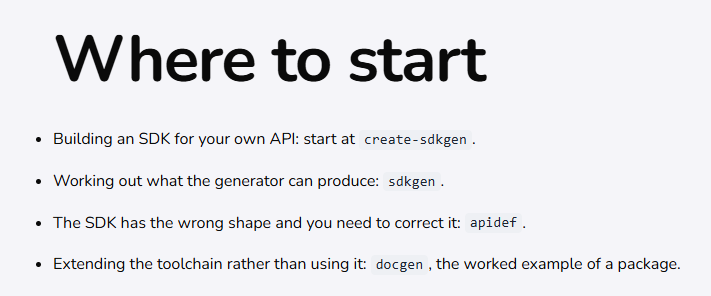
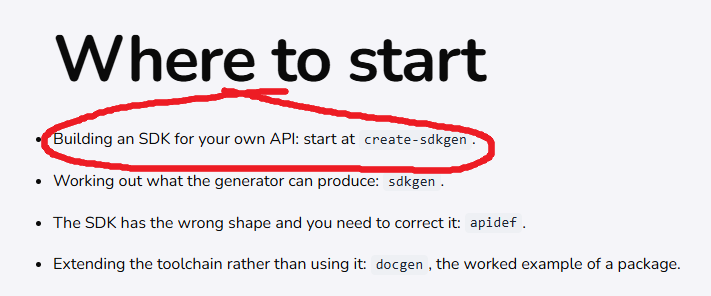
fixes

Changed region(s): [[0.0309, 0.2736, 0.7117, 0.6081]]

diff --git a/jobs/DevRel/Voxgig/assessment-notes.md b/jobs/DevRel/Voxgig/assessment-notes.md
@@ -10,105 +10,93 @@
 
 ## Human journey
 
-This is my personal journey to understand how to generate 
+This is my personal journey to learn how to generate an SDK, starting from the website as a human would.
 
 ### SDK main page
 
-Go to https://voxgig.com/sdk 
+Go to https://voxgig.com/sdk
 
-![alt text](image.png)
+![Voxgig SDK landing page](image.png)
 
 > [!NOTE]
 > Nothing interesting.
 
-
 #### ⚠ SPOILER ⚠
 
-If I scroll down to https://voxgig.com/sdk#your-own-sdk 
+When I scroll down to https://voxgig.com/sdk#your-own-sdk
 
-![alt text](image-2.png)
+![The "Your own SDK" section with the npm create command](image-2.png)
 
-That link goes to: https://github.com/voxgig/sdkgen 
+That link goes to: https://github.com/voxgig/sdkgen
 
-In the [voxgigsdkgen section of README.md](https://github.com/voxgig/sdkgen#voxgigsdkgen) I can see what I was looking for:
-![alt text](image-7.png)
+In the [voxgig-sdkgen section of the README](https://github.com/voxgig/sdkgen#voxgigsdkgen), I finally find what I was looking for:
+
+![README section showing the quick-start commands](image-7.png)
 
 > [!NOTE]
-> That repo README.md and (Agents)[https://voxgig.com/sdk/agents.md] ARE ❤fantastic❤. 
-> 
-> That content is what I would like to see in the home page
-> 
-> As user I expect in the webpage to be a complete and updated "getting started" section and not having to go to the github repo.
+> That repo's `README.md` and the [agent guide](https://voxgig.com/sdk/agents.md) are ❤fantastic❤.
+>
+> That content is what I would like to see on the home page.
+>
+> As a user, I expect the website to have a complete, up-to-date "Getting started" section, so I do not have to go to the GitHub repo.
 
-**⚠ But this is a shortcut, as user I want to find all the info I need in the webpage not in the github repo⚠**
-
+**⚠ But this is a shortcut: as a user, I want to find everything I need on the website, not in the GitHub repo. ⚠**
 
 ### SDK > docs
 
 URL: https://www.voxgig.com/sdk/docs
 
-Docs page. This is where I really expect to find a structured technical documentation. But I can't find it.
+Docs page. This is where I really expect to find structured technical documentation. But I cannot find it.
 
-#### The Title
+#### `Toolchain documentation` section
 
-![alt text](image-3.png)
-
-```
-# Toolchain documentation
-
-The toolchain is a pipeline of separately published packages. This section documents each of them, with every example taken from a public SDK the toolchain generated.
-```
+![The "Toolchain documentation" heading](image-3.png)
 
 > [!NOTE]
-> I don't like `Toolchain documentation` as title. I want to generate a SDK from an API, what has this to do with a `Toolchain`?
+> I don't like `Toolchain documentation` as a title. I want to generate an SDK from an API; what does this have to do with a toolchain?
 
-#### The Pipeline
+#### `The Pipeline` section
 
 URL: https://voxgig.com/sdk/docs#the-components
 
-![alt text](image-4.png)
+![The pipeline table](image-4.png)
 
-> [!NOTE]  
-> When I see this, it looks like a real "getting started". But after reading it, I realize is a marketing thing rather than a technical guide
-> - We are in the docs page, why not having the getting started here similar to what we have in the [README.md](https://github.com/voxgig/create-sdkgen/blob/main/AGENTS.md)
-> - I see mentions to multiple Voxgig products like `apidef`, `sdkgen` (the reason I'm here) and not mention to `create-sdkgen`, the product I'm going to actually use ➡ Feels confusing, why not having links to those products?
+> [!NOTE]
+> At first glance this looks like a real "Getting started". But after reading it, I realize it is marketing copy rather than a technical guide.
+> - We are on the docs page; why not have the getting started here, similar to what is in [`AGENTS.md`](https://github.com/voxgig/create-sdkgen/blob/main/AGENTS.md)?
+> - I see mentions of several Voxgig products, like `apidef` and `sdkgen` (the reason I am here), but no mention of `create-sdkgen`, the product I am actually going to use ➡ It feels confusing; why not link to those products?
+
+#### `The Components` section
 
 I scroll down to [The components](https://voxgig.com/sdk/docs#the-components)
 
-![alt text](image-5.png)
+
+![The components section](image-5.png)
 
 > [!NOTE]
-> - A description of tools but it's not which one I have to use to generate my sdkgen. 
-> - Still looking for a real documentation and a getting started guide.
-> - 1st time I see `create-sdkgen`, what's the difference between it and `sdkgen`?
-> - 💀 At this point I'm lost and frustrated, I don't know what to do.
+> - A description of the tools, but it does not say which one to use to generate my SDK.
+> - Still looking for real documentation and a getting-started guide.
+> - This is the first time I see `create-sdkgen`; what is the difference between it and `sdkgen`?
+> - 💀 At this point I am lost and frustrated; I don't know what to do.
+
+#### `Where to start` section
 
 I scroll to the bottom of the page, [Where to start](https://voxgig.com/sdk/docs#where-to-start) section
 
-![alt text](image-6.png)
+![The "Where to start" section](image-6.png)
 
+> [!IMPORTANT]
+> 🎉🎉🎉 FINALLY!!!! `Building an SDK for your own API: start at create-sdkgen` 👈 This is what I have been looking for since the beginning!
 
-> [!IMPORTANT]  
-> 🎉🎉🎉 FINALLY!!!! `Building an SDK for your own API: start at create-sdkgen` 👈 This is what I was looking for since the begining!!
-
-**⚠ At this point I give up with the webpage and I go straight to the `create-sdkgen` github repo since now I know this is what I need ⚠**
+**⚠ At this point I give up on the website and go straight to the `create-sdkgen` GitHub repo, since now I know this is what I need. ⚠**
 
 ## Notes
 
-- Always assumes in exmpales openapi is yaml and not json format
- 
-### Human journey conclusion
-
-Following the documentation its frustating for a human. The docs are genuinely confusing Concrete evidence:
-- Two packages (create-sdkgen, sdkgen) with near-identical names, in separate repos, where npm's npm create @voxgig/sdkgen command silently runs the other one.
-- [Agents path](https://voxgig.com/sdk/agents) holds the clearest human runbook.
-- The pipeline page names stages (Model, Generate) but not the commands or the packages that do them.
-- Package-name-vs-CLI-name mismatches everywhere (@voxgig/sdkgen ↔ voxgig-sdkgen ↔ create-sdkgen).
-- .aon vs .aontu extension churn mid-docs.
+- The examples assume the OpenAPI spec is YAML rather than JSON, even though the tool accepts both.
 
 ## Robot journey
 
-If I ask an AI what are the steps to do the assesment it's very clear what I have to do.
+If I ask an AI what the steps to complete the assessment are, it is very clear what I have to do.
 
 ### Prerequisites
 
@@ -148,7 +136,7 @@ Green tests = the SDK works, offline, no API key needed.
 
 ### Step 4 — (Optional) One real call
 
-Only if you have an API key, make a single live request to prove it works end to end. If you don't, skip — the offline tests already prove it.
+Only if you have an API key: make a single live request to prove it works end to end. If you don't have a key, skip this — the offline tests still prove the SDK builds and runs against the mock.
 
 ### Step 5 — Push to your GitHub under MIT
 
@@ -168,13 +156,12 @@ Repo URL + what worked, what broke, where you got stuck, what you'd change. That
 
 If something looks wrong in the output (wrong entity names, missing operations): edit the files in `my-api-sdk/.sdk/model/`, then re-run Step 2 and Step 3. Never edit `ts/` by hand — it gets overwritten.
 
-That's the entire assessment. Two things I can do for you right now: pick an API, or run Step 1 against your `openapi.json` — do you have a spec file already?
-
+That's the entire assessment.
 
 ## Conclusion
 
-webpage is confusing and full of marketing content even in the pages with Documentation in the title. A technical user would be lost and frustrated. The dough is in agents.md that is meant to be ued for agents but it's actually the most interesting information for humans
+The website is confusing and full of marketing content, even on the pages titled "Documentation". A technical user would be lost and frustrated. The best material is in `AGENTS.md`, which is written for AI agents but is the most useful thing I found as a human.
 
-1. The marketing site is the documented entry point, but the real documentation isn't there. Even /sdk/docs and /sdk/docs/create-sdkgen are marketing-shaped — stale (.aon), no runnable "start here" path.
-2. The one page written clearly is written for the wrong audience. AGENTS.md — labelled "for AI agents" — is the best human onboarding doc in the whole project. The clearest runbook is hidden behind a repo file most humans won't open, because the site never says "the real guide is AGENTS.md."
-3. The names defeat the reader. create-sdkgen vs sdkgen, @voxgig/sdkgen npm command launching @voxgig/create-sdkgen, two overlapping tutorials in two repos. Every step has a naming trap.
+1. The website is the documented entry point, but the real documentation is not there. Even `/sdk/docs` is marketing-shaped, and one page still used `.aon` where the current GitHub guide uses `.aontu`.
+2. The clearest runbook is in `AGENTS.md`. Although it is framed for AI agents, it is the best human onboarding doc in the project, and the website never points humans to it.
+3. The names are easy to confuse: `create-sdkgen` versus `sdkgen`, the `npm create @voxgig/sdkgen` command silently running `create-sdkgen`, and two overlapping tutorials in separate repos.
